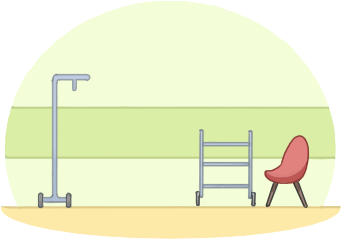
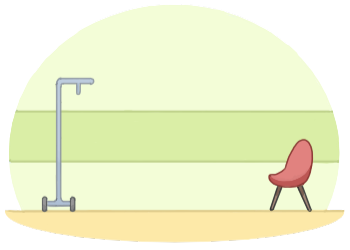
feat: add child (non-item) to silhouette container, #45

diff --git a/test/object_test.dart b/test/object_test.dart
@@ -1,3 +1,4 @@
+import 'package:flame/components.dart';
 import 'package:flame/input.dart';
 import 'package:flame_test/flame_test.dart';
 import 'package:flutter_test/flutter_test.dart';
@@ -19,6 +20,8 @@ void main() {
         game.update(5);
         await game.ready();
         final world = game.children.query<HospitalPuzzle>().first;
+        expect(world.silhouetteContainer.children.query<SpriteComponent>().length, 2);
+        expect(world.silhouetteContainer.childIsHappy, false);
         expect(world.silhouetteContainer.children.query<SilhouetteItem>().length, 1);
         expect(world.draggableContainer.children.query<DraggableItem>().length, 2);
         expect(world.instruction.text, "Ayo cocokkan gambar!");
@@ -95,6 +98,8 @@ void main() {
           silhouetteItem.onCollision({Vector2(0,0)}, draggableItem);
           await game.ready();
         }
+        expect(world.silhouetteContainer.children.query<SpriteComponent>().length, 6);
+        expect(world.silhouetteContainer.childIsHappy, true);
         expect(world.silhouetteContainer.children.query<SilhouetteItem>().length, 5);
         expect(world.draggableContainer.children.query<DraggableItem>().length, 0);
         expect(world.children.query<ButtonComponent>().length, 1);

diff --git a/lib/components/silhouette_container.dart b/lib/components/silhouette_container.dart
@@ -8,6 +8,8 @@ import 'package:talacare/talacare.dart';
 class SilhouetteContainer extends SpriteComponent with HasGameRef<TalaCare>,
 HasWorldReference<HospitalPuzzle> {
   int currentIndex = -1;
+  late bool childIsHappy;
+  late SpriteComponent child;
 
   SilhouetteContainer({required super.position});
 
@@ -15,6 +17,13 @@ HasWorldReference<HospitalPuzzle> {
   FutureOr<void> onLoad() async {
     anchor = Anchor.center;
     sprite = Sprite(game.images.fromCache('Game_2/hospital_container.png'));
+    child = SpriteComponent(
+      anchor: Anchor.center,
+      position: Vector2(225, 160),
+      sprite: Sprite(game.images.fromCache('Game_2/child_boy_before.png'))
+    );
+    childIsHappy = false;
+    add(child);
     addNextItem();
     return super.onLoad();
   }
@@ -22,5 +31,10 @@ HasWorldReference<HospitalPuzzle> {
   FutureOr<void> addNextItem() async {
     add(SilhouetteItem(item: Item.values[world.score]));
     currentIndex++;
+  }
+
+  FutureOr<void> changeChildSprite() async {
+    child.sprite = Sprite(game.images.fromCache('Game_2/child_boy_after.png'));
+    childIsHappy = true;
   }
 }

diff --git a/lib/helpers/item.dart b/lib/helpers/item.dart
@@ -1,5 +1,5 @@
 enum Item {
-  mother(290, 140), nurse(140, 130), bed(100, 167), syringe(227, 138), bloodbag(75, 110);
+  mother(290, 140), nurse(140, 133), bed(100, 170), syringe(175, 138), bloodbag(80, 110);
   const Item(this.x, this.y);
   final double x;
   final double y;

diff --git a/lib/components/game_2.dart b/lib/components/game_2.dart
@@ -70,6 +70,7 @@ class HospitalPuzzle extends World with HasGameRef<TalaCare> {
       silhouetteContainer.addNextItem();
     } else {
       instruction.text = "Transfusi darah berhasil!";
+      silhouetteContainer.changeChildSprite();
       addExitButton();
     }
   }
